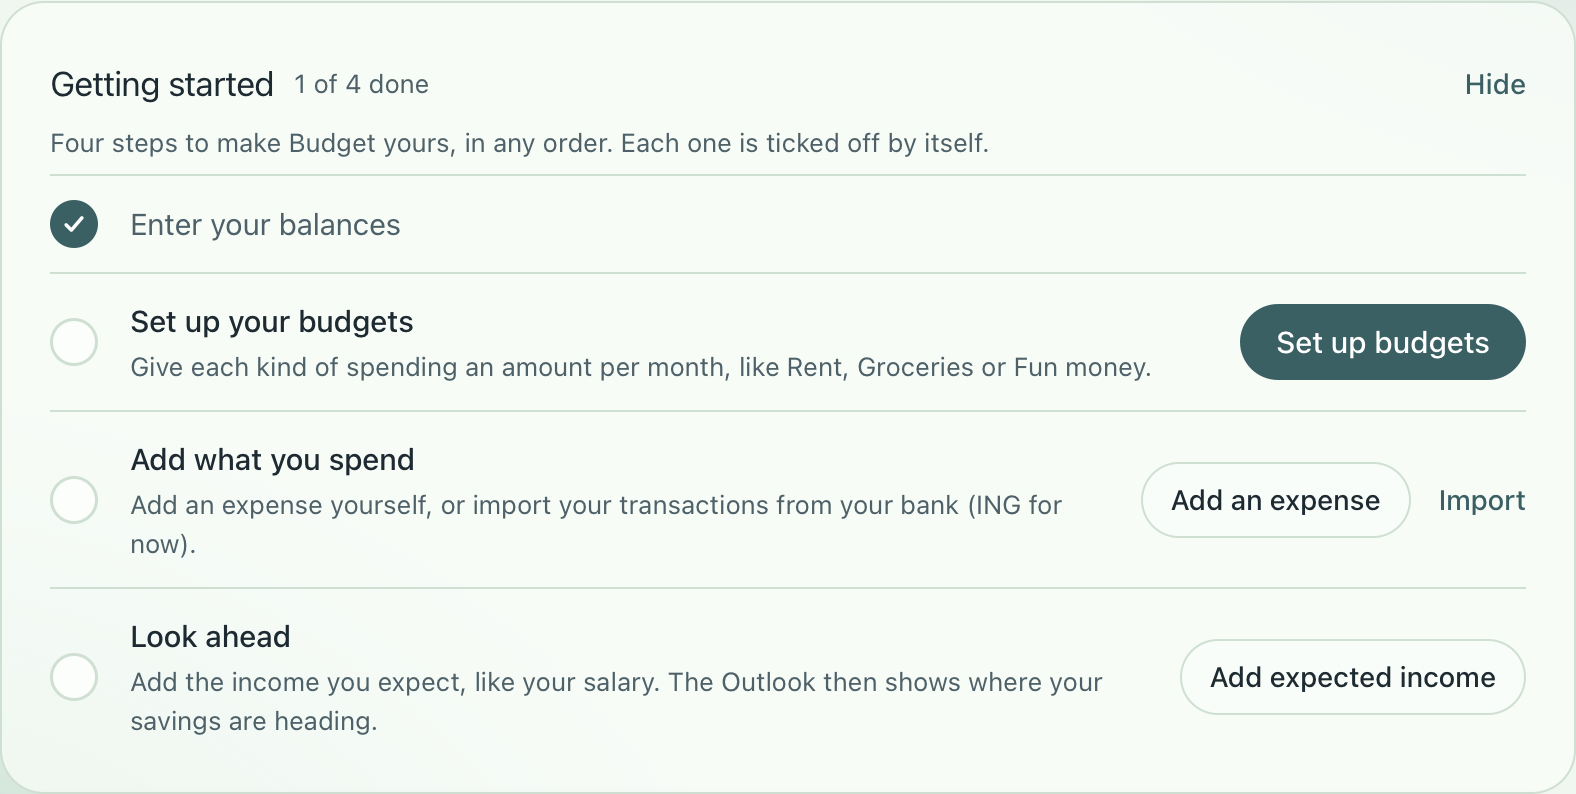
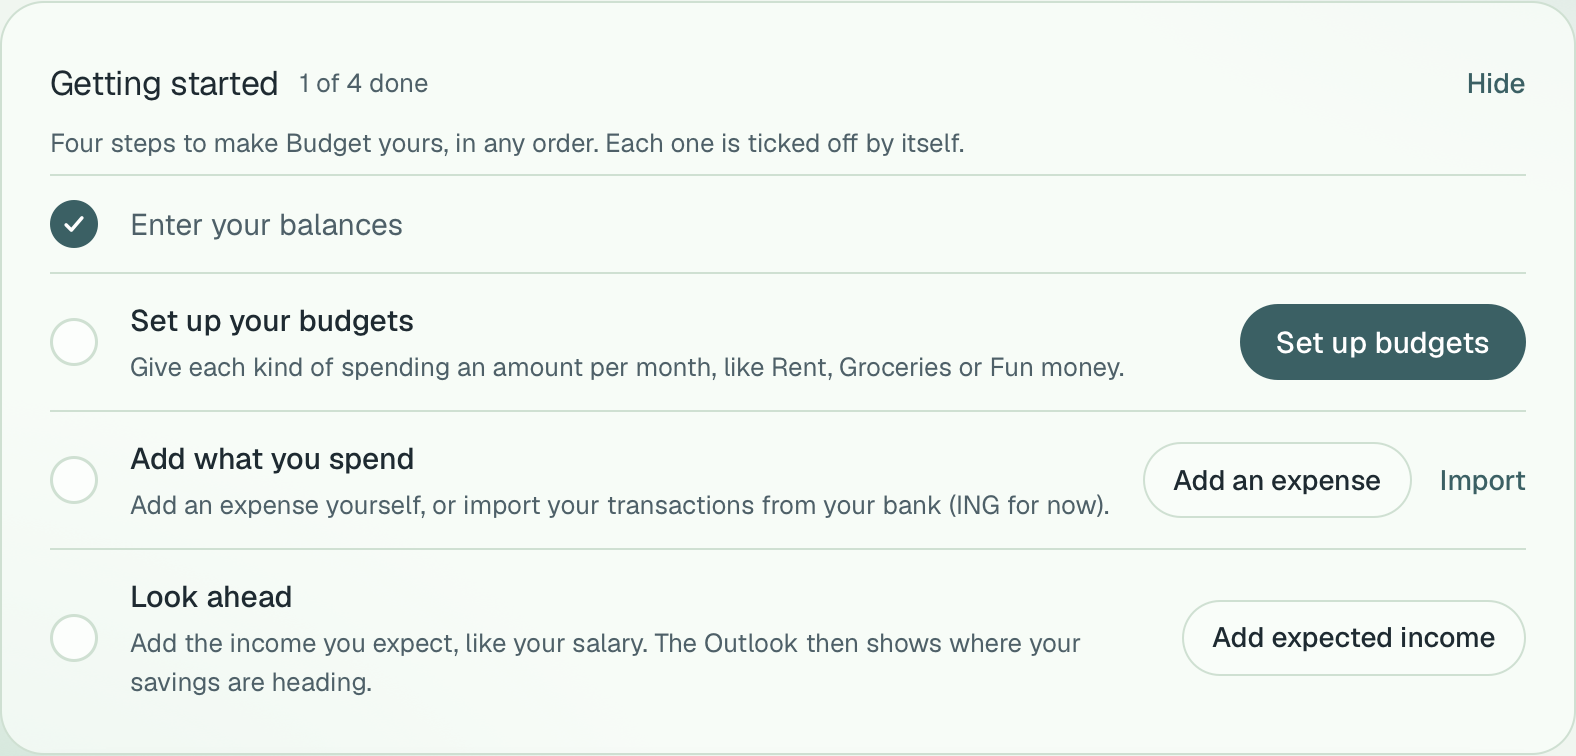
Screenshots in Geist, and note the font in CLAUDE.md

diff --git a/CLAUDE.md b/CLAUDE.md
@@ -71,7 +71,9 @@ pywebview and PyInstaller are used for the Mac app. There is no web build step.
   shown to the user are friendly and say what to do.
 - Styles: CSS custom properties in `static/style.css`, light and dark themes,
   one fixed palette of greens and slate blues (#c9e4ca, #87bba2, #55828b, #3b6064, #364958),
-  a soft glow behind frosted cards, and red only for being over budget. Match existing components (cards, `.bl-row`, `.mgr-row`, dialogs).
+  a soft glow behind frosted cards, and red only for being over budget. One font everywhere: Geist,
+  shipped in `static/fonts/` (SIL Open Font License), so the app looks the same on every system
+  and never loads anything from the internet. Match existing components (cards, `.bl-row`, `.mgr-row`, dialogs).
 
 ## Keeping the installed app current
 
